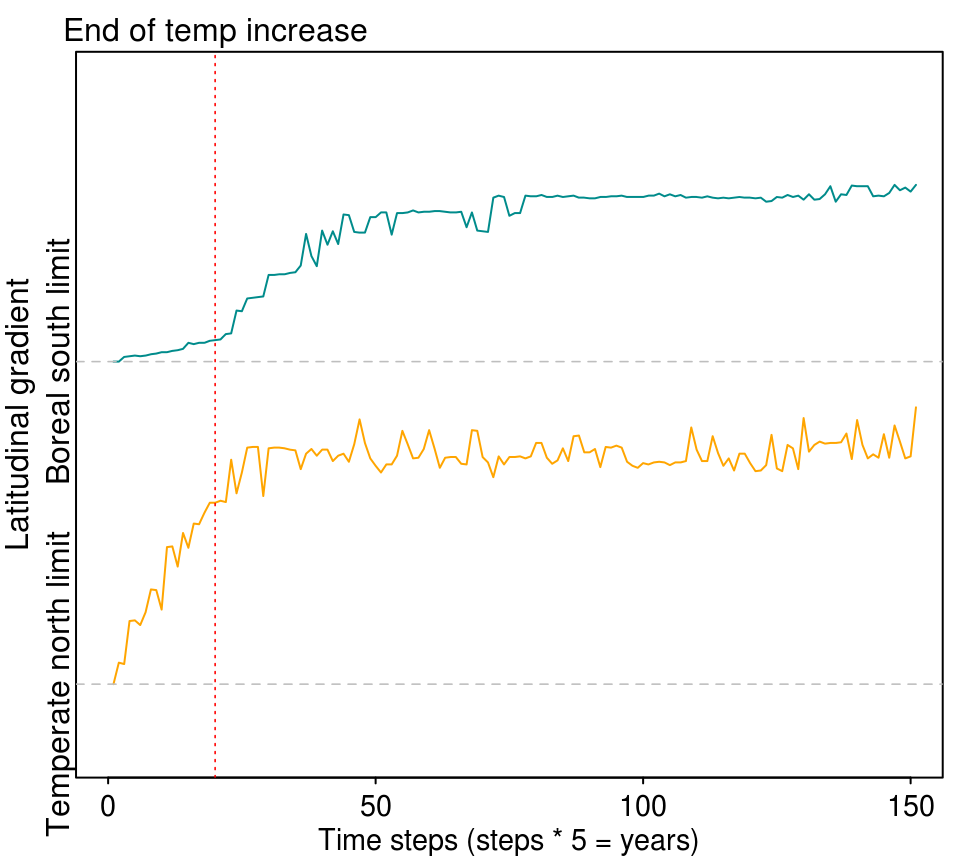
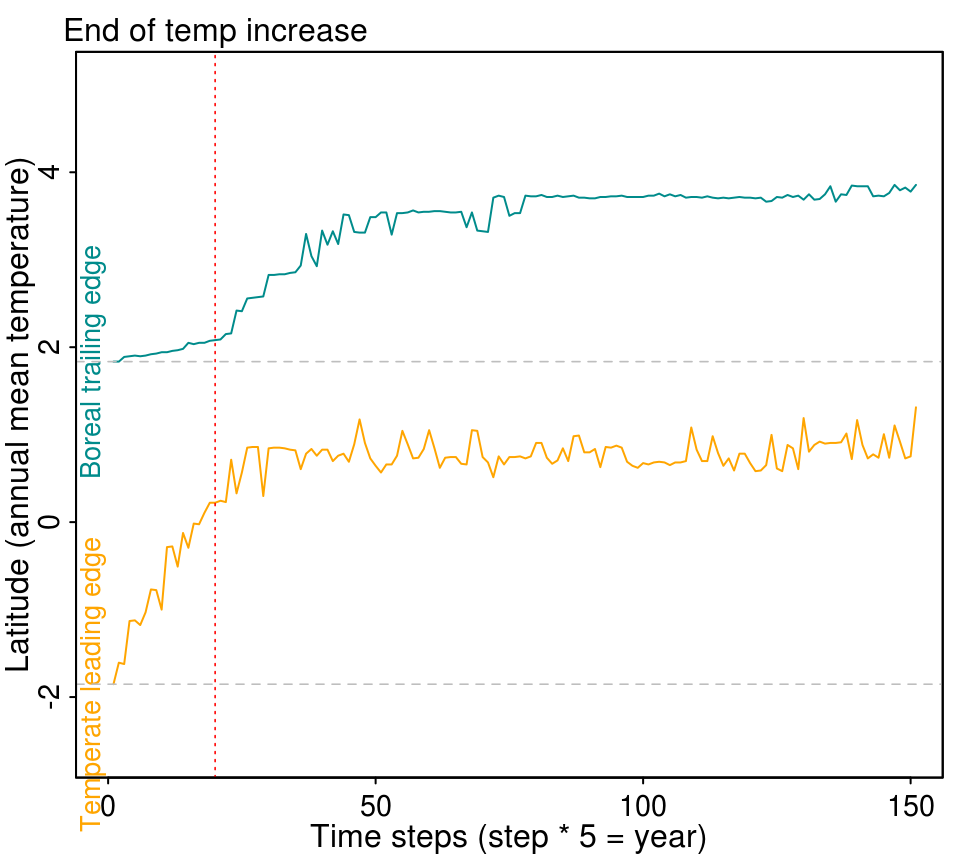
Deploy willvieira/STManaged to github.com/willvieira/STManaged.git:gh-pages

Changed region(s): [[0.0, 0.1875, 0.125, 0.9688], [0.3125, 0.9375, 0.75, 1.0]]

diff --git a/articles/STManaged.html b/articles/STManaged.html
@@ -76,7 +76,7 @@
     <div class="page-header toc-ignore">
       <h1>Introduction to STManaged</h1>
             
-            <h4 class="date">2019-08-12</h4>
+            <h4 class="date">2019-08-13</h4>
       
       <small class="dont-index">Source: <a href="https://github.com/willvieira/STM-managed/blob/master/vignettes/STManaged.Rmd"><code>vignettes/STManaged.Rmd</code></a></small>
       <div class="hidden name"><code>STManaged.Rmd</code></div>
@@ -104,7 +104,7 @@
 <p><code>initLand</code> is a list of 6 objects with information about the landscape. <code>land</code> informing which forest states is present in each cell, <code>env1</code> storing the temperature gradient and <code>nCol</code> and <code>nRow</code> to inform the landscape dimension. The other two objects have information about cells neighbor to be used internally.</p>
 <div class="sourceCode" id="cb4"><pre class="sourceCode r"><code class="sourceCode r"><a class="sourceLine" id="cb4-1" data-line-number="1"><span class="kw"><a href="https://www.rdocumentation.org/packages/utils/topics/str">str</a></span>(initLand[<span class="dv">1</span><span class="op">:</span><span class="dv">4</span>])</a>
 <a class="sourceLine" id="cb4-2" data-line-number="2"><span class="co">#&gt; List of 4</span></a>
-<a class="sourceLine" id="cb4-3" data-line-number="3"><span class="co">#&gt;  $ land: Named int [1:100000] 1 1 1 1 1 1 1 1 1 4 ...</span></a>
+<a class="sourceLine" id="cb4-3" data-line-number="3"><span class="co">#&gt;  $ land: Named int [1:100000] 1 1 1 1 1 1 1 1 1 1 ...</span></a>
 <a class="sourceLine" id="cb4-4" data-line-number="4"><span class="co">#&gt;   ..- attr(*, "names")= chr [1:100000] "1" "2" "3" "4" ...</span></a>
 <a class="sourceLine" id="cb4-5" data-line-number="5"><span class="co">#&gt;  $ env1: num [1:1000] -2.46 -2.46 -2.46 -2.45 -2.45 ...</span></a>
 <a class="sourceLine" id="cb4-6" data-line-number="6"><span class="co">#&gt;  $ nCol: num 1000</span></a>
@@ -145,8 +145,8 @@
 <div id="range-limit-migration-over-time" class="section level3">
 <h3 class="hasAnchor">
 <a href="#range-limit-migration-over-time" class="anchor"></a>Range Limit migration over time</h3>
-<p>Another possibility is to evaluate how the range limit of forest states varies over time. For that we will use the <code><a href="../reference/range_limit.html">range_limit()</a></code> function better explained <a href="#TODO">here</a>, that is integrated in the <code><a href="../reference/plot_rangeLimitMigration.html">plot_rangeLimitMigration()</a></code> function. The latter needs only the <code>lands</code> object and a threshold <code>rangeLimitOccup</code> defining the minimum occupancy a row of the landscape that must be occupied by the state to be considered part of the state distribution. This function calculates the range limit of the boreal and temperate states only. The red dotted line shows the moment when the temperature increase due to climate change ends.</p>
-<div class="sourceCode" id="cb11"><pre class="sourceCode r"><code class="sourceCode r"><a class="sourceLine" id="cb11-1" data-line-number="1"><span class="kw"><a href="../reference/plot_rangeLimitMigration.html">plot_rangeLimitMigration</a></span>(lands, <span class="dt">rangeLimitOccup =</span> <span class="fl">0.7</span>)</a></code></pre></div>
+<p>Another possibility is to evaluate how the range limit of forest states varies over time. For that we will use the <code><a href="../reference/range_limit.html">range_limit()</a></code> function better explained <a href="#TODO">here</a>, that is integrated in the <code>plot_rangeLimitMigration()</code> function. The latter needs only the <code>lands</code> object and a threshold <code>rangeLimitOccup</code> defining the minimum occupancy a row of the landscape that must be occupied by the state to be considered part of the state distribution. This function calculates the range limit of the boreal and temperate states only. The red dotted line shows the moment when the temperature increase due to climate change ends.</p>
+<div class="sourceCode" id="cb11"><pre class="sourceCode r"><code class="sourceCode r"><a class="sourceLine" id="cb11-1" data-line-number="1"><span class="kw"><a href="../reference/plot_rangeShift.html">plot_rangeShift</a></span>(lands, <span class="dt">rangeLimitOccup =</span> <span class="fl">0.7</span>)</a></code></pre></div>
 <p><img src="STManaged_files/figure-html/unnamed-chunk-12-1.png" width="480" style="display: block; margin: auto;"></p>
 </div>
 </div>

diff --git a/reference/plot_rangeShift.html b/reference/plot_rangeShift.html
@@ -6,7 +6,7 @@
 <meta http-equiv="X-UA-Compatible" content="IE=edge">
 <meta name="viewport" content="width=device-width, initial-scale=1.0">
 
-<title>Plot range limit migration — plot_rangeLimitMigration • STManaged</title>
+<title>Plot range limit migration — plot_rangeShift • STManaged</title>
 
 <!-- jquery -->
 <script src="https://cdnjs.cloudflare.com/ajax/libs/jquery/3.3.1/jquery.min.js" integrity="sha256-FgpCb/KJQlLNfOu91ta32o/NMZxltwRo8QtmkMRdAu8=" crossorigin="anonymous"></script>
@@ -30,7 +30,7 @@
 
 
 
-<meta property="og:title" content="Plot range limit migration — plot_rangeLimitMigration" />
+<meta property="og:title" content="Plot range limit migration — plot_rangeShift" />
 
 <meta property="og:description" content="This function plots the how the range limit of boreal and temperate states varies over time" />
 <meta name="twitter:card" content="summary" />
@@ -113,8 +113,8 @@
   <div class="col-md-9 contents">
     <div class="page-header">
     <h1>Plot range limit migration</h1>
-    <small class="dont-index">Source: <a href='https://github.com/willvieira/STM-managed/blob/master/R/plot_rangeLimitMigration.R'><code>R/plot_rangeLimitMigration.R</code></a></small>
-    <div class="hidden name"><code>plot_rangeLimitMigration.Rd</code></div>
+    <small class="dont-index">Source: <a href='https://github.com/willvieira/STM-managed/blob/master/R/plot_rangeShift.R'><code>R/plot_rangeShift.R</code></a></small>
+    <div class="hidden name"><code>plot_rangeShift.Rd</code></div>
     </div>
 
     <div class="ref-description">
@@ -123,7 +123,7 @@
     
     </div>
 
-    <pre class="usage"><span class='fu'>plot_rangeLimitMigration</span>(<span class='no'>lands</span>, <span class='kw'>rangeLimitOccup</span> <span class='kw'>=</span> <span class='kw'>NULL</span>)</pre>
+    <pre class="usage"><span class='fu'>plot_rangeShift</span>(<span class='no'>lands</span>, <span class='kw'>rangeLimitOccup</span> <span class='kw'>=</span> <span class='kw'>NULL</span>)</pre>
     
     <h2 class="hasAnchor" id="arguments"><a class="anchor" href="#arguments"></a>Arguments</h2>
     <table class="ref-arguments">
@@ -141,7 +141,7 @@
 
     <h2 class="hasAnchor" id="examples"><a class="anchor" href="#examples"></a>Examples</h2>
     <pre class="examples"><span class='co'># NOT RUN {</span>
-<span class='fu'>plot_rangeLimitMigration</span>(<span class='no'>lands</span>)
+<span class='fu'>plot_rangeShift</span>(<span class='no'>lands</span>)
 <span class='co'># }</span></pre>
   </div>
   <div class="col-md-3 hidden-xs hidden-sm" id="sidebar">

diff --git a/index.html b/index.html
@@ -105,8 +105,8 @@
 <a class="sourceLine" id="cb2-17" data-line-number="17"><span class="kw"><a href="reference/plot_occupancy.html">plot_occupancy</a></span>(lands, <span class="dt">step =</span> <span class="dv">0</span>, <span class="dt">spar =</span> <span class="fl">0.4</span>)</a>
 <a class="sourceLine" id="cb2-18" data-line-number="18"><span class="kw"><a href="reference/plot_occupancy.html">plot_occupancy</a></span>(lands, <span class="dt">step =</span> <span class="dv">40</span>, <span class="dt">spar =</span> <span class="fl">0.4</span>)</a>
 <a class="sourceLine" id="cb2-19" data-line-number="19"></a>
-<a class="sourceLine" id="cb2-20" data-line-number="20">## range Limit migration over time</a>
-<a class="sourceLine" id="cb2-21" data-line-number="21"><span class="kw"><a href="reference/plot_rangeLimitMigration.html">plot_rangeLimitMigration</a></span>(lands, <span class="dt">rangeLimitOccup =</span> <span class="fl">0.7</span>)</a>
+<a class="sourceLine" id="cb2-20" data-line-number="20">## Range limit shift of Boreal and Temperate states over time</a>
+<a class="sourceLine" id="cb2-21" data-line-number="21"><span class="kw"><a href="reference/plot_rangeShift.html">plot_rangeShift</a></span>(lands, <span class="dt">rangeLimitOccup =</span> <span class="fl">0.7</span>)</a>
 <a class="sourceLine" id="cb2-22" data-line-number="22"></a>
 <a class="sourceLine" id="cb2-23" data-line-number="23">## animated gif of the dynamics</a>
 <a class="sourceLine" id="cb2-24" data-line-number="24"><span class="kw"><a href="reference/animate.html">animate</a></span>(lands, <span class="dt">stepsBy =</span> <span class="dv">2</span>, <span class="dt">fps =</span> <span class="dv">5</span>, <span class="dt">gifName =</span> <span class="st">'RCP4.5'</span>, <span class="dt">rangeLimitOccup =</span> <span class="fl">0.7</span>)</a></code></pre></div>

diff --git a/reference/index.html b/reference/index.html
@@ -154,7 +154,7 @@
       </tr><tr>
         
         <td>
-          <p><code><a href="plot_rangeLimitMigration.html">plot_rangeLimitMigration()</a></code> </p>
+          <p><code><a href="plot_rangeShift.html">plot_rangeShift()</a></code> </p>
         </td>
         <td><p>Plot range limit migration</p></td>
       </tr><tr>
